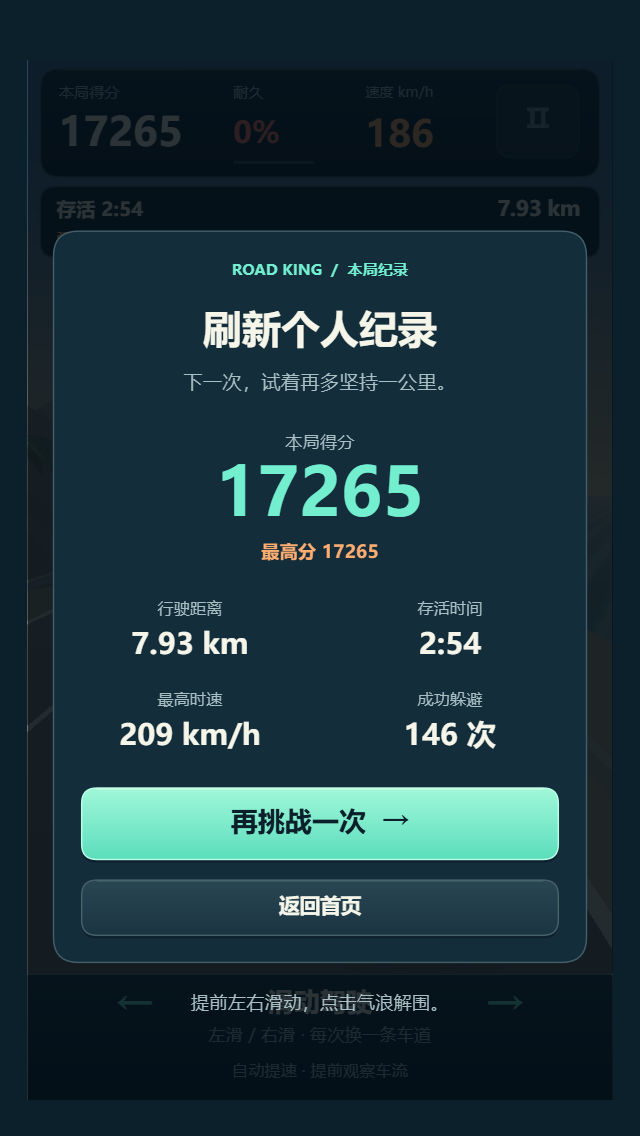
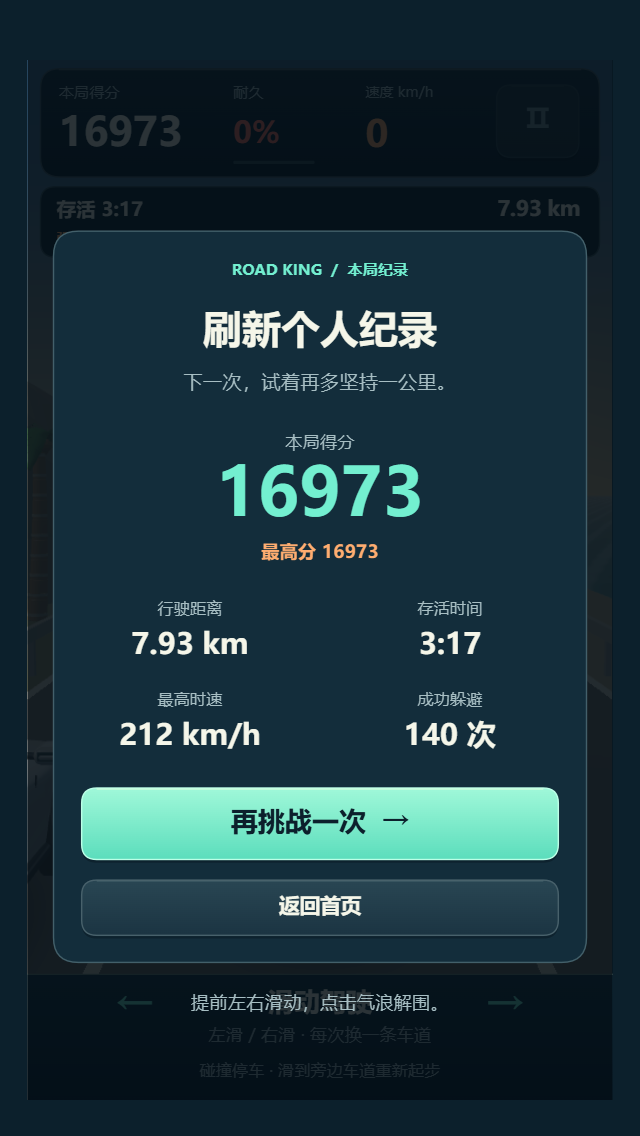
Stop on collision and require a clear lane change to restart

diff --git a/公路之王/src/game-core.js b/公路之王/src/game-core.js
@@ -35,6 +35,8 @@ class RoadKingCore {
     this.pulseCooldown = 0;
     this.pulseLife = 0;
     this.invulnerability = 0;
+    this.collisionStopped = false;
+    this.collisionX = 0;
     this.laneChangeCooldown = 0;
     this.message = '';
     this.messageTimer = 0;
@@ -106,7 +108,7 @@ class RoadKingCore {
     }
     const cruise = this.difficulty.cruiseSpeed;
     const desired = Math.min(240, cruise + (this.throttle ? 22 : 0));
-    this.speed = moveTowards(this.speed, desired, dt * (this.throttle ? 45 : 24));
+    this.speed = this.collisionStopped ? 0 : moveTowards(this.speed, desired, dt * (this.throttle ? 45 : 24));
     this.maxSpeed = Math.max(this.maxSpeed, this.speed);
     this.distance += this.speed / 3.6 * dt;
     const distanceScore = Math.floor(this.distance * 1.5);
@@ -114,8 +116,14 @@ class RoadKingCore {
     this._distanceScore = distanceScore;
     this.playerX = moveTowards(this.playerX, this.lane, dt * 5);
     this._updateTraffic(dt);
+    if (this.collisionStopped && Math.abs(this.playerX - this.collisionX) >= 0.8 && Math.abs(this.playerX - this.lane) < 0.01 &&
+        !this.traffic.some(car => Math.abs(car.x - this.playerX) < 0.65 && Math.abs(car.z) < 5.5)) {
+      this.collisionStopped = false;
+      this._message('已避开碰撞 · 从静止重新加速', 2.5);
+      this._emit('collision-recovered', { lane: this.lane });
+    }
     if (this.health <= 0) { this._finish(false, '车辆耐久耗尽'); return; }
-    if (this.elapsed + 1e-8 >= this._nextTraffic) {
+    if (!this.collisionStopped && this.elapsed + 1e-8 >= this._nextTraffic) {
       const spawned = this._spawnTraffic();
       this._nextTraffic = this.elapsed + (spawned ? this.difficulty.spawnInterval : 0.15);
     }
@@ -278,18 +286,30 @@ class RoadKingCore {
           }
         }
       }
+      if (car.hit) car.speed = this.collisionStopped || car.kind === 'barrier' ? 0 : car.baseSpeed;
+      const previousZ = car.z;
       car.z += (car.speed - this.speed) / 3.6 * dt * 0.75;
       car.x = moveTowards(car.x, car.lane, dt * 4);
-      if (!car.escaped && !car.hit && this.invulnerability <= 1e-8 && Math.abs(car.x - this.playerX) < 1.72 / 3.35 && Math.abs(car.z) < 3.5) {
+      // Rear traffic queues behind the player instead of passing through it.
+      // Damage immunity also keeps approaching traffic physically separated.
+      if (Math.abs(car.x - this.playerX) < 0.65) {
+        if (previousZ <= -3.5 && car.z > -4.7) car.z = -4.7;
+        if (previousZ >= 3.5 && car.z < 4.7 && (this.collisionStopped || this.invulnerability > 1e-8)) car.z = 4.7;
+      }
+      if (!this.collisionStopped && !car.escaped && !car.hit && this.invulnerability <= 1e-8 && Math.abs(car.x - this.playerX) < 1.72 / 3.35 && Math.abs(car.z) < 3.5) {
         car.hit = true;
         this.health = Math.max(0, this.health - 26);
         this.score = Math.max(0, this.score - 120);
         this.collisions++;
         this.invulnerability = 2.1;
-        this.speed = Math.max(25, this.speed - 23);
+        this.speed = 0;
+        this.collisionStopped = true;
+        this.collisionX = this.playerX;
+        car.speed = 0;
+        car.z = previousZ < 0 ? -4.7 : 4.7;
         car.changePending = false;
         car.signalDirection = 0;
-        this._message('发生碰撞 −26 耐久 / −120 分', 3);
+        this._message('碰撞停车 −26 耐久 · 左右滑动换道后重新加速', 6);
         this._emit('collision', { carId: car.id, health: this.health, damage: 26, invulnerability: 2.1 });
       }
       if (!car.passed && car.z < -7) {
@@ -302,6 +322,16 @@ class RoadKingCore {
         }
       }
       if (car.z < -32 || car.z > 175) this.traffic.splice(index, 1);
+    }
+    // Keep a bumper gap through queues, including behind the stopped crash car.
+    const ordered = [...this.traffic].sort((a, b) => b.z - a.z);
+    for (let i = 0; i < ordered.length; i++) {
+      for (let j = 0; j < i; j++) {
+        if (Math.abs(ordered[i].x - ordered[j].x) < 0.65 && ordered[i].z > ordered[j].z - 5.5) {
+          ordered[i].z = ordered[j].z - 5.5;
+        }
+      }
+      if (Math.abs(ordered[i].x - this.playerX) < 0.65 && ordered[i].z <= 0 && ordered[i].z > -4.7) ordered[i].z = -4.7;
     }
   }
 

diff --git a/tests/game-core.test.js b/tests/game-core.test.js
@@ -115,10 +115,18 @@ test('collision removes 26 health and grants 2.1 seconds of protection', () => {
   assert.equal(game.health, 74);
   assert.equal(game.collisions, 1);
   assert.equal(second.hit, false);
-  game.invulnerability = 0;
-  game._updateTraffic(0.001);
-  assert.equal(game.health, 48);
-  assert.equal(game.collisions, 2);
+  game.update(5);
+  assert.equal(game.speed, 0);
+  assert.equal(game.health, 74);
+  assert.equal(game.collisionStopped, true);
+  const distance = game.distance;
+  game.changeLane(1);
+  game.update(.2);
+  assert.equal(game.collisionStopped, false);
+  assert.equal(game.speed, 0);
+  assert.equal(game.distance, distance);
+  game.update(1);
+  assert.ok(game.speed > 0 && game.speed <= 24.01);
 });
 
 test('a run settles once on the fourth hit and retry resets all challenge resources', () => {
@@ -126,7 +134,7 @@ test('a run settles once on the fourth hit and retry resets all challenge resour
   const game = fresh(137, (type, data) => events.push({ type, data }));
   noSpawns(game);
   game.update(80); game.pulse(); game.setSignal(1); game.update(0.5);
-  for (let i = 0; i < 4; i++) { game.invulnerability = 0; car(game); game._updateTraffic(0.001); }
+  for (let i = 0; i < 4; i++) { game.traffic = []; game.collisionStopped = false; game.invulnerability = 0; car(game); game._updateTraffic(0.001); }
   game.update(0.01);
   assert.equal(game.mode, 'result');
   assert.equal(game.health, 0);
@@ -281,18 +289,51 @@ test('visible lane choices support six-minute runs across seeds as real traffic 
   console.log('Six-minute public-input runs:', JSON.stringify(summaries));
 });
 
-test('an unattended car crashes instead of farming an endless score', () => {
+test('an unattended car stays stopped after its first crash without farming distance score', () => {
   for (const seed of [1, 23, 137, 90210, 0xdeadbeef]) {
     const events = [];
     const game = fresh(seed, type => events.push(type));
     game.update(360);
-    assert.equal(game.mode, 'result', `seed ${seed}, survived ${game.elapsed}s`);
-    assert.equal(game.health, 0);
-    assert.equal(game.collisions, 4);
-    assert.ok(game.elapsed < 360);
-    assert.equal(events.filter(type => type === 'result').length, 1);
+    assert.equal(game.mode, 'playing');
+    assert.equal(game.health, 74);
+    assert.equal(game.collisions, 1);
+    assert.equal(game.collisionStopped, true);
+    assert.equal(game.speed, 0);
+    assert.equal(events.filter(type => type === 'result').length, 0);
     const score = game.score;
     game.update(1000);
     assert.equal(game.score, score);
   }
+});
+
+test('rear cars queue without crossing the stopped player and drive on after it changes lanes', () => {
+  const game = fresh(); noSpawns(game);
+  car(game);
+  game.update(.01);
+  const rear = car(game, 0, -12), following = car(game, 0, -20);
+  const otherLane = car(game, -1, -12);
+  game.update(12);
+  assert.ok(rear.z <= -4.7);
+  assert.ok(following.z <= rear.z - 5.5);
+  assert.ok(otherLane.z > 0);
+  assert.equal(game.collisions, 1);
+  game.changeLane(1); game.update(.2);
+  assert.equal(game.collisionStopped, false);
+  game.update(1);
+  assert.ok(rear.z > -4.7);
+});
+
+test('changing into a blocked neighbouring lane keeps the car stopped', () => {
+  const game = fresh(); noSpawns(game);
+  car(game); game.update(.01);
+  const blocker = car(game, 1, 4.7);
+  blocker.kind = 'barrier'; blocker.speed = blocker.baseSpeed = 0;
+  game.changeLane(1); game.update(3);
+  assert.equal(game.playerX, 1);
+  assert.equal(game.speed, 0);
+  assert.equal(game.collisionStopped, true);
+  game.changeLane(-1); game.update(.2);
+  assert.equal(game.collisionStopped, true);
+  game.changeLane(-1); game.update(.2);
+  assert.equal(game.collisionStopped, false);
 });

diff --git a/公路之王/src/game-app.js b/公路之王/src/game-app.js
@@ -241,7 +241,7 @@ class RoadKingApp {
       this.txt(cooling?Math.ceil(g.pulseCooldown)+'s':'✦',x,y-9,cooling?23:30,cooling?C.white:C.cyan,'bold','center');this.txt('气浪',x,y+21,15,C.white,'bold','center');c.restore();
       this.buttons.push({x:x-r,y:y-r,w:r*2,h:r*2,circle:true,key:'气浪技能',disabled:cooling,action:()=>g.pulse()});
     }
-    this.txt('自动提速 · 提前观察车流',270,934,15,C.mute,'normal','center');
+    this.txt(g.collisionStopped?'碰撞停车 · 滑到旁边车道重新起步':'自动提速 · 提前观察车流',270,934,15,C.mute,'normal','center');
   }
   scrim(){this.ctx.fillStyle='rgba(3,12,19,.83)';this.ctx.fillRect(0,0,W,H);this.buttons=[];}
   drawPause(){

diff --git a/tools/package_douyin_demo.py b/tools/package_douyin_demo.py
@@ -68,7 +68,7 @@ report = {
     'files':names,
     'zipIntegrity':'passed',
     'platform':'Douyin native WebGL 3D scene with Blender geometry and Canvas 2D HUD',
-    'verification':'27 Node tests; editable Blender geometry and real-time WebGL browser asset/input checks. See research/blender-preview and README for scope.',
+    'verification':'29 Node tests; collision stop/recovery, editable Blender geometry and real-time WebGL browser asset/input checks. See research/blender-preview and README for scope.',
     'notVerified':['Blender art version in Douyin IDE simulator','Android/iOS phone','live upload and publication','phone performance','audio listening'],
 }
 (target / 'delivery-manifest.json').write_text(json.dumps(report,ensure_ascii=False,indent=2),encoding='utf-8')

diff --git a/公路之王/README.md b/公路之王/README.md
@@ -27,7 +27,7 @@
 - 起步以单道障碍为主，随后增加固定路障、双车道阻挡、错位组合与带方向预告的橙色变线车。
 - 巡航速度平滑上升，障碍生成间隔缩短；阶段提示表示同一局难度升级，不会重置进度。
 - 每组障碍保留安全出口，相邻出口只相差一条车道。前后障碍还会保持纵向间距，减少组合叠成必撞局面的情况。
-- 碰撞扣 26 耐久与 120 分，分数最低为 0；碰撞后有 2.1 秒伤害保护，四次碰撞耗尽耐久。
+- 碰撞扣 26 耐久与 120 分，分数最低为 0，车速立即归零。左右滑到旁边且有空位的车道后，从静止重新加速；同车道后车保持间距排队，其他车道继续通行。碰撞后有 2.1 秒伤害保护，停车等待期间不会反复扣耐久，四次碰撞耗尽耐久。
 - 持续行驶与躲避障碍获得分数。最高分、最长距离和最长存活时间分别记录，使用独立无尽存档 `roadking.endless.best.v1`，不混入旧关卡成绩。
 - 重开会重置车速、难度、车流、能量、冷却、碰撞和本局得分。本地纪录保留。
 
@@ -42,7 +42,7 @@ node preview/serve.js 4179
 
 访问 [http://127.0.0.1:4179/](http://127.0.0.1:4179/)。若端口已有服务，直接访问并刷新。浏览器与抖音环境加载同一份 `game-core.js` 和 `game-app.js`。浏览器预览工具不需要放入抖音发布包。
 
-规则与平台测试 **27/27 通过**。覆盖无尽规则及资源加载、缓存、缺图重试和原生网格文件读取。`tools/verify_realtime_preview.cjs` 验证 WebGL 状态、换道后主车完整显示、气浪冷却和暂停；`tools/verify_blender_preview.cjs` 验证长时间车流与结算。实际游戏截图和报告输出至 `research/blender-preview/`。
+规则与平台测试 **29/29 通过**。覆盖撞后停车、换道重新起步、被占用车道不能起步、后车排队，以及无尽规则和原生资源读取。`tools/verify_realtime_preview.cjs` 验证 WebGL 状态、换道后主车完整显示、气浪冷却和暂停；`tools/verify_blender_preview.cjs` 验证长时间车流、撞后停车和恢复后的结算。实际游戏截图和报告输出至 `research/blender-preview/`。
 
 本次验证范围为 Node 规则/平台测试与共享源码浏览器预览（390×844、320×568）。本次无尽修改尚未在抖音模拟器或手机真机重验，也未上传、审核或发布。`research/douyin-preview/` 中的记录与旧版 PDF 是原三关版本的历史资料。
 
